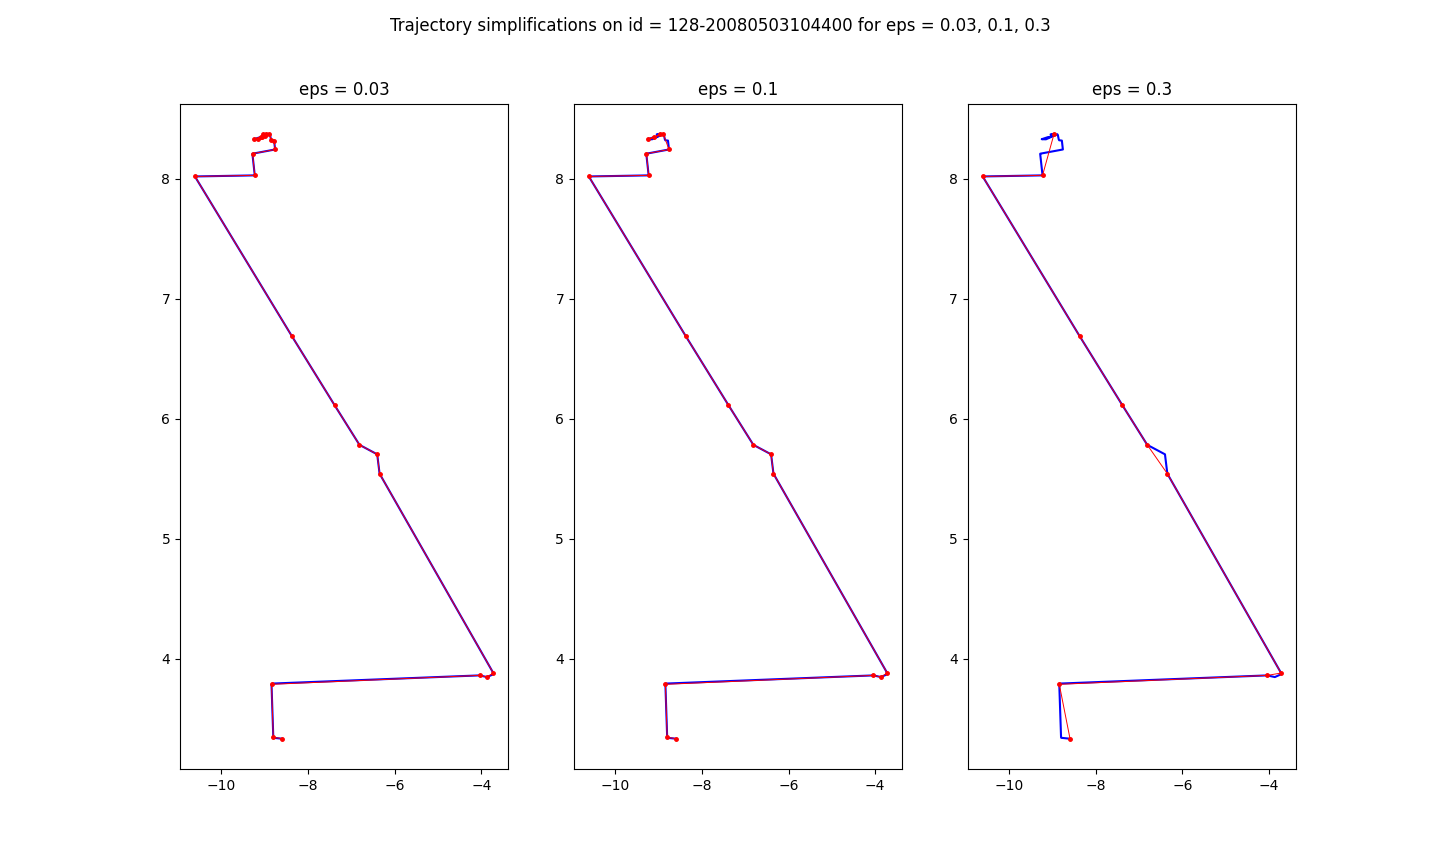
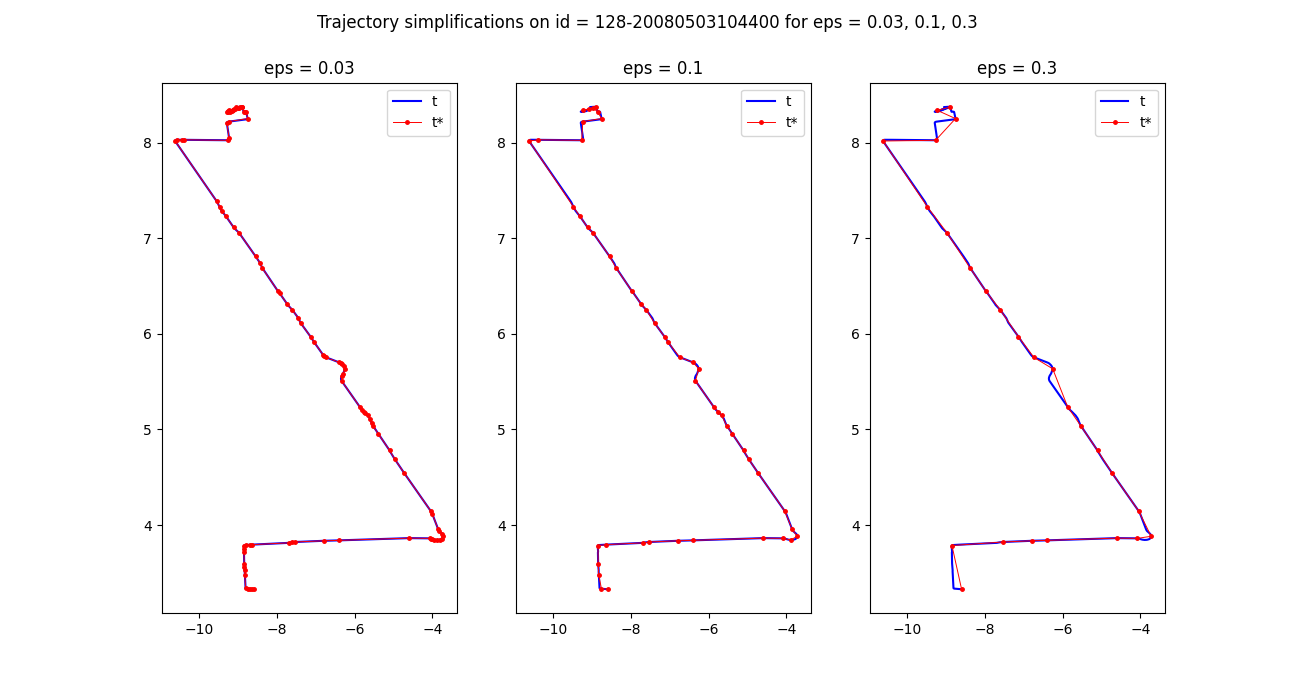
updated task 3

diff --git a/task3.py b/task3.py
@@ -21,89 +21,92 @@ def import_data(fname):
             y = float(row[3])
             data.append((id, x, y))
 
-# dynamic time warping, Eavg 
+# dynamic time warping, Eavg
 def dtw(seriesA, seriesB):
-   A = seriesA
-   B = seriesB
-   n = len(seriesA)
-   m = len(seriesB) 
+    A = seriesA
+    B = seriesB
+    n = len(seriesA)
+    m = len(seriesB)
 
-   if n < m:
-       A, B = B, A
+    #base cases, fill first and if any series is 1 element
+    DP = [[None for _ in range(m)] for _ in range(n)]
+    DP[0][0] = dist(A[0], B[0])
+    for j in range(1, m):
+        DP[0][j] = DP[0][j - 1] + dist(A[0], B[j])
 
-   #base cases, fill first and if any series is 1 element
-   DP = [[None for _ in range(m)] for _ in range(n)]
-   DP[0][0] = dist(A[0], B[0])
-   for j in range(1, m):
-       DP[0][j] = DP[0][j - 1] + dist(A[0], B[j])
+    for i in range(1, n):
+        DP[i][0] = DP[i - 1][0] + dist(A[i], B[0])
 
-   for i in range(1, n):
-       DP[i][0] = DP[i - 1][0] + dist(A[i], B[0])
+    for i in range(1, n):
+        for j in range(1, m):
+            DP[i][j] = dist(A[i], B[j]) + min(DP[i][j - 1], DP[i - 1][j], DP[i - 1][j - 1])
 
-   for i in range(1, n):
-       for j in range(1, m):
-           DP[i][j] = dist(A[i], B[j]) + min(DP[i][j - 1], DP[i - 1][j], DP[i - 1][j - 1])
+    def find_min(n, m):
+        min = (0, m)
+        for i in range(1, n):
+            if DP[i][m] < DP[min[0]][min[1]]:
+                min = (i, m)
+        return min #function to find the minimum distance b/w points
 
-   def find_min(n, m):
-       min = (0, m)
-       for i in range(1, n):
-           if DP[i][m] < DP[min[0]][min[1]]:
-               min = (i, m)
-       return min #function to find the minimum distance b/w points
+    distances = []
 
-   distances = []
+    for k in range(0, m):
+        pair = find_min(n, k)
+        distances.append(dist(A[pair[0]], B[pair[1]]))
 
-   for k in range(0, m):
-       pair = find_min(n, k)
-       distances.append(dist(A[pair[0]], B[pair[1]]))
+    #return DP[n - 1][m - 1]
+    return distances
 
-   #return DP[n - 1][m - 1]
-   return distances
-
-#Frechet Distance Function, Emax
+    #Frechet Distance Function, Emax
 def fd(seriesA, seriesB):
-   A = seriesA
-   B = seriesB
-   n = len(seriesA)
-   m = len(seriesB)
+    A = seriesA
+    B = seriesB
+    n = len(seriesA)
+    m = len(seriesB)
 
-   if n < m:
-       A, B = B, A
+    """
+    if n < m:
+        A, B = B, A
+    """
 
-   DP = [[None for _ in range(m)] for _ in range (n)]
-   DP[0][0] = dist(A[0], B[0])
-   for j in range(1, m):
-       DP[0][j] = DP[0][j-1] + dist(A[0], B[j])
+    DP = [[None for _ in range(m)] for _ in range (n)]
+    DP[0][0] = dist(A[0], B[0])
+    for j in range(1, m):
+        DP[0][j] = DP[0][j-1] + dist(A[0], B[j])
 
-   for i in range(1, n):
-       DP[i][0] = DP[i-1][0] + dist(A[i], B[0])
+    for i in range(1, n):
+        DP[i][0] = DP[i-1][0] + dist(A[i], B[0])
 
-   for i in range(1, n):
-       for j in range(1, m):
-           DP[i][j] = max(dist(A[i], B[j]),min(DP[i][j-1], DP[i-1][j], DP[i-1][
-               j-1]))
+    for i in range(1, n):
+        for j in range(1, m):
+            DP[i][j] = max(dist(A[i], B[j]),min(DP[i][j-1], DP[i-1][j], DP[i-1][
+                j-1]))
 
-   def find_min(n,m):
-       min = (0,m)
-       for i in range(1,n):
-           if DP[i][m] < DP[min[0]][min[1]]:
-               min = (i, m)
-       return min
-   
-   distances = []
+    def find_min(n,m):
+        min = (0,m)
+        for i in range(1,n):
+            if DP[i][m] < DP[min[0]][min[1]]:
+                min = (i, m)
+        return min
+    
+    distances = []
 
-   for k in range(0,m):
-       pair = find_min(n,k)
-       distances.append(dist(A[pair[0]],B[pair[1]]))
-   #return DP[n-1][m-1]
-   return distances
+    for k in range(0,m):
+        pair = find_min(n,k)
+        distances.append(dist(A[pair[0]],B[pair[1]]))
+    #return DP[n-1][m-1]
+    return distances
 
 #Distance Formula
 def dist(a, b):
   return math.dist([a[0], a[1]], [b[0], b[1]])
 
 def main(P, Q):
-   return (dtw(P, Q), fd(P, Q))
+    """
+    input: two trajectories A and B
+    output: list of Eavg and Emax distances
+    """
+    return (dtw(P, Q), fd(P, Q))
 
 if __name__ == '__main__':
     A = [(0, 0), (1,1), (2,2)]

diff --git a/task2.py b/task2.py
@@ -3,7 +3,7 @@ from typing import List, Tuple
 import csv
 from matplotlib import pyplot as plt
 
-filename = 'geolife-cars-ten-percent.csv'
+filename = 'geolife-cars.csv'
 data = []
 
 def import_data(fname):
@@ -37,12 +37,11 @@ def dist_point_segment(q: Tuple[float, float], e): #d in the case study doc
     if l2 == 0:
         return min(dist(q, a), dist(q,b))
 
-
     AB = [e[1][0]-e[0][0],e[1][1]-e[0][1]]
     AQ = [q[0]-e[0][0],q[1]-e[0][1]]
     BQ = [q[0]-e[1][0],q[1]-e[1][1]]
     if dotProduct(AB,AQ)==0 or dotProduct(AB,BQ)==0:
-        return ((((b[0] - a[0])* (a[1]-q[1])) - ((a[0] - q[0]) * (b[1]-a[1])))/ math.sqrt(l2))
+        return (abs(((b[0] - a[0])* (a[1]-q[1])) - ((a[0] - q[0]) * (b[1]-a[1])))/ math.sqrt(l2))
     else:
         return min(dist((e[0][0],e[0][1]),q),dist((e[1][0],e[1][1]),q))
 
@@ -98,12 +97,15 @@ def visualize(t, ts1, ts2, ts3):
     ax1.set_title('eps = 0.03')
     ax1.plot(T_x, T_y, color = 'blue', label = 't')
     ax1.plot(T_star_1_x, T_star_1_y, color = 'red', linewidth = 0.7, marker = '.', markersize=5, label = 't*')
+    ax1.legend()
     ax2.set_title('eps = 0.1')
     ax2.plot(T_x, T_y, color = 'blue', label = 't')
     ax2.plot(T_star_2_x, T_star_2_y, color = 'red', linewidth = 0.7, marker = '.',  markersize=5, label = 't*')
+    ax2.legend()
     ax3.set_title('eps = 0.3')
     ax3.plot(T_x, T_y, color = 'blue', label = 't')
     ax3.plot(T_star_3_x, T_star_3_y, color = 'red', linewidth = 0.7, marker = '.',  markersize=5, label = 't*')
+    ax3.legend()
     plt.show()
 
     plt.legend()

diff --git a/task3_tests.py b/task3_tests.py
@@ -5,7 +5,7 @@ ali noa mike
 from matplotlib import pyplot as plt
 import task3
 
-filename = 'geolife-cars-sixty-percent.csv'
+filename = 'geolife-cars.csv'
 trajectory_pairs = [('128-20080503104400', '128-20080509135846'), 
 ('010-20081016113953', '010-20080923124453'), ('115-20080520225850', '115-20080615225707')]
 
@@ -18,7 +18,20 @@ if __name__ == "__main__":
         T2 = [x[1:] for x in task3.data if x[0] == trajectory_pairs[i][1]]
         results.append(task3.main(T1, T2))
 
-    plt.hist(results[0][0])
+    # first trajectory pair
+    for i in range(3):
+        fig, (ax1, ax2) = plt.subplots(1, 2)
+        plt.suptitle('Lengths of edges in Eavg and Emax for trajectory pair {}'.format(i))
+        ax1.hist(results[i][0]) # Eavg
+        ax1.set_title('Eavg')
+        ax2.hist(results[i][1]) #Emax
+        ax2.set_title('Emax')
+        plt.savefig('task3_figure_{}'.format(i))
+    
+    # second trajectory pair
+    fig, (ax1, ax2) = plt.subplots(1, 2)
+    ax1.hist(results[0][0]) # Eavg
+    ax2.hist(results[0][1]) #Emax
     plt.show()
     #file3.writelines(results)
     #file3.close()

diff --git a/task2_tests.py b/task2_tests.py
@@ -5,7 +5,7 @@ experiments for task 2
 import task2
 import time
 
-filename = 'geolife-cars-ten-percent.csv'
+filename = 'geolife-cars.csv'
 trajectories = ['128-20080503104400', '010-20081016113953', '115-20080520225850', '115-20080615225707']
 
 def main(T):
